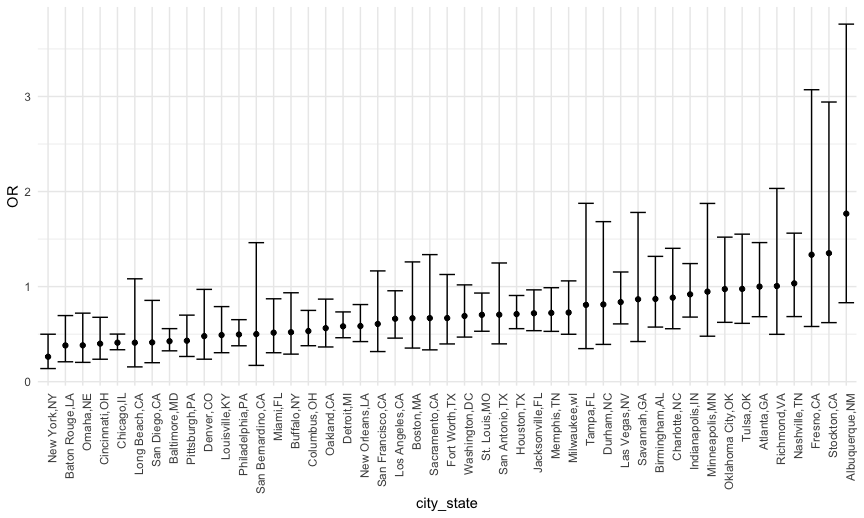
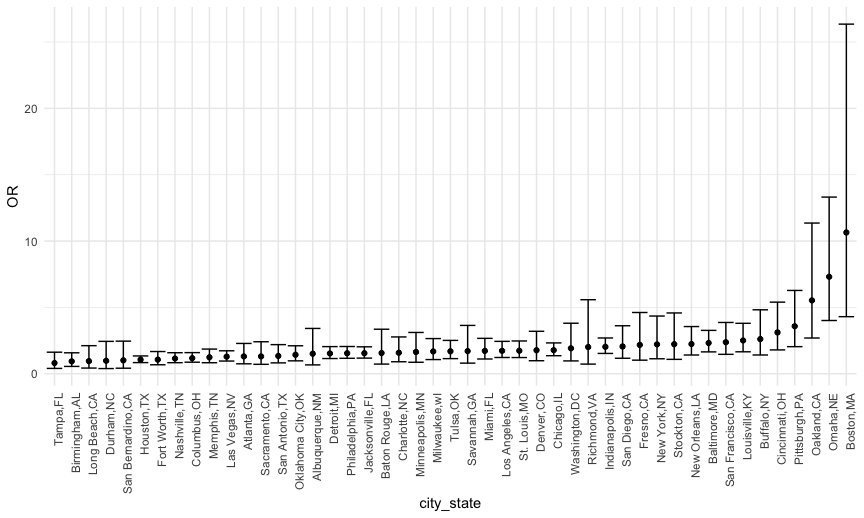
update

diff --git a/p8105_hw6_xy2476.md b/p8105_hw6_xy2476.md
@@ -73,7 +73,7 @@ models_results_df =
 
 ``` r
 models_results_df %>% 
-  filter(term == "victim_sexMale") %>% 
+  filter(term == "victim_raceWhite") %>% 
   mutate(city_state = fct_reorder(city_state, OR)) %>% 
   ggplot(aes(x = city_state, y = OR)) + 
   geom_point() + 
@@ -83,7 +83,10 @@ models_results_df %>%
 
 <img src="p8105_hw6_xy2476_files/figure-gfm/unnamed-chunk-4-1.png" width="90%" />
 
-**Comment**:
+**Comment**: We can see that Tampa, FL has the lowest OR with small 95%
+CI range and Boston,MA has the highest and has the largest 95% CI range.
+All the OR are above 0, meaning that comparing to black population, when
+victim is white, the cases have a higher chance of being solved.
 
 ## Problem 2
 
@@ -93,10 +96,10 @@ Find some residuals
 baby_df = 
   read_csv("./data/birthweight.csv") %>% 
   mutate(
-    babysex = factor(babysex),
-    frace = factor(frace),
-    malform = factor(malform),
-    mrace = factor(mrace)
+    babysex = factor(babysex), #convert numeric to factor
+    frace = factor(frace), #convert numeric to factor
+    malform = factor(malform), #convert numeric to factor
+    mrace = factor(mrace) #convert numeric to factor
   ) 
 ```
 
@@ -130,26 +133,64 @@ model.matrix(~0+., data=baby_df) %>%
 
 <img src="p8105_hw6_xy2476_files/figure-gfm/unnamed-chunk-6-1.png" width="90%" />
 
+Using correlation matrix to identify which parameters have higher
+positive association with birth weight. Decide to pick delwt(mother’s
+weight at delivery (pounds)) and gaweeks(gestational age in weeks).
+
 fit a model
 
 ``` r
 model_fit = lm(bwt ~ delwt + gaweeks, data = baby_df)
+
+#See quality of the model 
+model_fit %>%
+  broom::glance()
 ```
+
+    ## # A tibble: 1 x 12
+    ##   r.squared adj.r.squared sigma statistic   p.value    df  logLik    AIC    BIC
+    ##       <dbl>         <dbl> <dbl>     <dbl>     <dbl> <dbl>   <dbl>  <dbl>  <dbl>
+    ## 1     0.227         0.226  450.      636. 4.67e-243     2 -32690. 65389. 65414.
+    ## # … with 3 more variables: deviance <dbl>, df.residual <int>, nobs <int>
+
+``` r
+#Both are significant coeff
+model_fit %>%
+  broom::tidy()
+```
+
+    ## # A tibble: 3 x 5
+    ##   term        estimate std.error statistic   p.value
+    ##   <chr>          <dbl>     <dbl>     <dbl>     <dbl>
+    ## 1 (Intercept)  -140.      92.4       -1.51 1.30e-  1
+    ## 2 delwt           5.54     0.310     17.9  5.95e- 69
+    ## 3 gaweeks        62.1      2.18      28.4  4.69e-163
 
 plot residual
 
 ``` r
-baby_df %>% 
-  modelr::add_residuals(model_fit) %>% 
-  modelr::add_predictions(model_fit) %>% 
-  ggplot(aes(x = pred, y = resid)) + geom_point()
+baby_df %>%
+  modelr::add_residuals(model_fit) %>%
+  ggplot(aes(x = resid)) + geom_density()
 ```
 
 <img src="p8105_hw6_xy2476_files/figure-gfm/unnamed-chunk-8-1.png" width="90%" />
 
 ``` r
-##check scale
+baby_df %>% 
+  modelr::add_residuals(model_fit) %>% 
+  modelr::add_predictions(model_fit) %>% 
+  ggplot(aes(x = pred, y = resid)) + geom_point() +
+  labs(
+    title = "Residuals against fitted value",
+    x = "Fitted value",
+    y = "Residuals"
+  )
 ```
+
+<img src="p8105_hw6_xy2476_files/figure-gfm/unnamed-chunk-9-1.png" width="90%" />
+
+Overall, residuals are centered around 0.
 
 compare models
 
@@ -157,7 +198,6 @@ compare models
 model_fit = lm(bwt ~ delwt + gaweeks, data = baby_df)
 model_1 = lm(bwt ~ blength + gaweeks, data = baby_df)
 model_2 = lm(bwt ~ bhead * blength * babysex, data = baby_df)
-##change name
 ```
 
 ``` r
@@ -182,7 +222,7 @@ cv_df =
   )
 ```
 
-plot prediction error
+plot prediction error for each models
 
 ``` r
 cv_df %>% 
@@ -196,13 +236,17 @@ cv_df %>%
   ggplot(aes(x = model, y = rmse)) + geom_violin()
 ```
 
-<img src="p8105_hw6_xy2476_files/figure-gfm/unnamed-chunk-11-1.png" width="90%" />
+<img src="p8105_hw6_xy2476_files/figure-gfm/unnamed-chunk-12-1.png" width="90%" />
 
 ``` r
 ##change name
 ```
 
-adding too many variable can adjusted r sqare， degress of value
+From the graph we can see that model 2 using head circumference, length,
+sex, and all interactions has the lower rmse, meaning a better model,
+while the model I created has the highest rmse. This may be because
+adding too many variable increases the degrees of value and increases
+it’s predictive accuracy.
 
 ## Problem 3
 
@@ -234,10 +278,13 @@ weather_df =
 
 Bootstrapping
 
+For ![\\hat{r^2}](https://latex.codecogs.com/png.latex?%5Chat%7Br%5E2%7D
+"\\hat{r^2}")
+
 ``` r
 r_sq = 
   weather_df %>% 
-  modelr::bootstrap(n = 500) %>% 
+  modelr::bootstrap(n = 5000) %>% 
   mutate(
     models = map(strap, ~lm(tmax ~ tmin, data = .x)),
     results = map(models, broom::glance)
@@ -247,29 +294,28 @@ r_sq =
 
 #distribution
 r_sq %>% 
-  ggplot(aes(x = r.squared)) + geom_density()
-```
-
-<img src="p8105_hw6_xy2476_files/figure-gfm/unnamed-chunk-13-1.png" width="90%" />
-
-``` r
-#95% CI
-r_sq %>% 
-  summarize(
-    ci_lower = quantile(r.squared, 0.025),
-    ci_upper = quantile(r.squared, 0.975)
+  ggplot(aes(x = r.squared)) + geom_density() +
+  labs(
+    title = "Distribution of R Squared Values"
   )
 ```
 
-    ## # A tibble: 1 x 2
-    ##   ci_lower ci_upper
-    ##      <dbl>    <dbl>
-    ## 1    0.893    0.927
+<img src="p8105_hw6_xy2476_files/figure-gfm/unnamed-chunk-14-1.png" width="90%" />
+
+``` r
+#95% CI
+r2_ci_lower = quantile(pull(r_sq, r.squared), 0.025)
+r2_ci_upper = quantile(pull(r_sq, r.squared), 0.975)
+```
+
+For ![log(\\hat{\\beta\_0} \*
+\\hat{\\beta\_1})](https://latex.codecogs.com/png.latex?log%28%5Chat%7B%5Cbeta_0%7D%20%2A%20%5Chat%7B%5Cbeta_1%7D%29
+"log(\\hat{\\beta_0} * \\hat{\\beta_1})")
 
 ``` r
 betas = 
   weather_df %>% 
-  modelr::bootstrap(n = 500) %>% 
+  modelr::bootstrap(n = 5000) %>% 
   mutate(
     models = map(strap, ~lm(tmax ~ tmin, data = .x)),
     results = map(models, broom::tidy)
@@ -294,55 +340,31 @@ betas = betas[ toDelete ,]
   
 #distribution
 betas %>% 
-  ggplot(aes(x = beta_c)) + geom_density()
-```
-
-<img src="p8105_hw6_xy2476_files/figure-gfm/unnamed-chunk-14-1.png" width="90%" />
-
-``` r
-#95% CI
- 
-betas %>% 
-  summarize(
-    ci_lower = quantile(beta_c, 0.025),
-    ci_upper = quantile(beta_c, 0.975)
+  ggplot(aes(x = beta_c)) + geom_density() +
+  labs(
+    title = "Distribution of Log Estimates"
   )
 ```
 
-    ## `summarise()` ungrouping output (override with `.groups` argument)
-
-    ## # A tibble: 500 x 3
-    ##    .id   ci_lower ci_upper
-    ##    <chr>    <dbl>    <dbl>
-    ##  1 001       2.03     2.03
-    ##  2 002       2.02     2.02
-    ##  3 003       2.03     2.03
-    ##  4 004       2.00     2.00
-    ##  5 005       2.00     2.00
-    ##  6 006       1.94     1.94
-    ##  7 007       2.03     2.03
-    ##  8 008       2.00     2.00
-    ##  9 009       2.01     2.01
-    ## 10 010       2.02     2.02
-    ## # … with 490 more rows
+<img src="p8105_hw6_xy2476_files/figure-gfm/unnamed-chunk-15-1.png" width="90%" />
 
 ``` r
-ci_lower = quantile(betas$beta_c, 0.025)
-ci_upper = quantile(betas$beta_c, 0.975)
-
-ci_lower
+#95% CI
+beta_ci_lower = quantile(pull(betas,beta_c), 0.025)
+beta_ci_upper = quantile(pull(betas,beta_c), 0.975)
 ```
 
-    ##     2.5% 
-    ## 1.971082
-
-``` r
-ci_upper
-```
-
-    ##    97.5% 
-    ## 2.056522
-
-``` r
-##pull 
-```
+The distributions of
+![\\hat{r^2}](https://latex.codecogs.com/png.latex?%5Chat%7Br%5E2%7D
+"\\hat{r^2}") and ![log(\\hat{\\beta\_0} \*
+\\hat{\\beta\_1})](https://latex.codecogs.com/png.latex?log%28%5Chat%7B%5Cbeta_0%7D%20%2A%20%5Chat%7B%5Cbeta_1%7D%29
+"log(\\hat{\\beta_0} * \\hat{\\beta_1})") using bootstrap seem to be
+following a normal distribution with rsquare’s distribution centered
+around 0.915 and beta centered around 2.02. Both are slightly left
+skewed.
+![\\hat{r^2}](https://latex.codecogs.com/png.latex?%5Chat%7Br%5E2%7D
+"\\hat{r^2}") 95%CI is (0.8936977, 0.9274807) and ![log(\\hat{\\beta\_0}
+\*
+\\hat{\\beta\_1})](https://latex.codecogs.com/png.latex?log%28%5Chat%7B%5Cbeta_0%7D%20%2A%20%5Chat%7B%5Cbeta_1%7D%29
+"log(\\hat{\\beta_0} * \\hat{\\beta_1})") 95%CI is (1.9656328,
+2.0584694).
